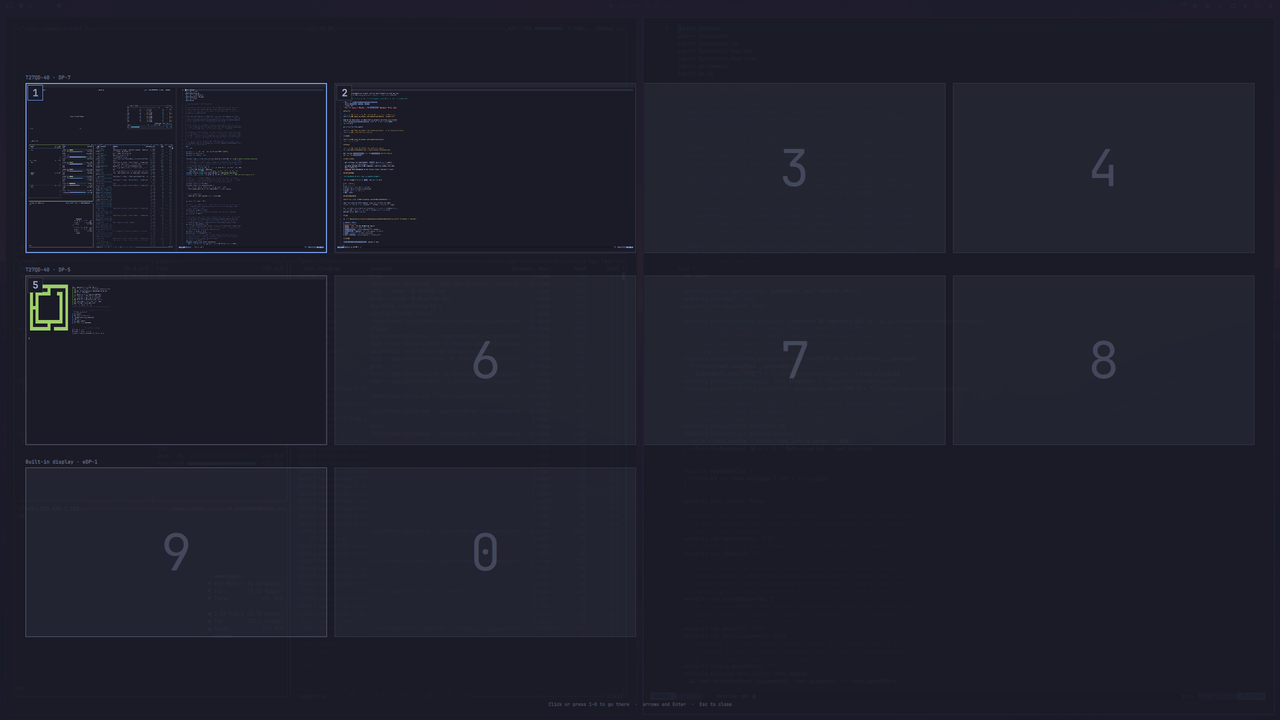
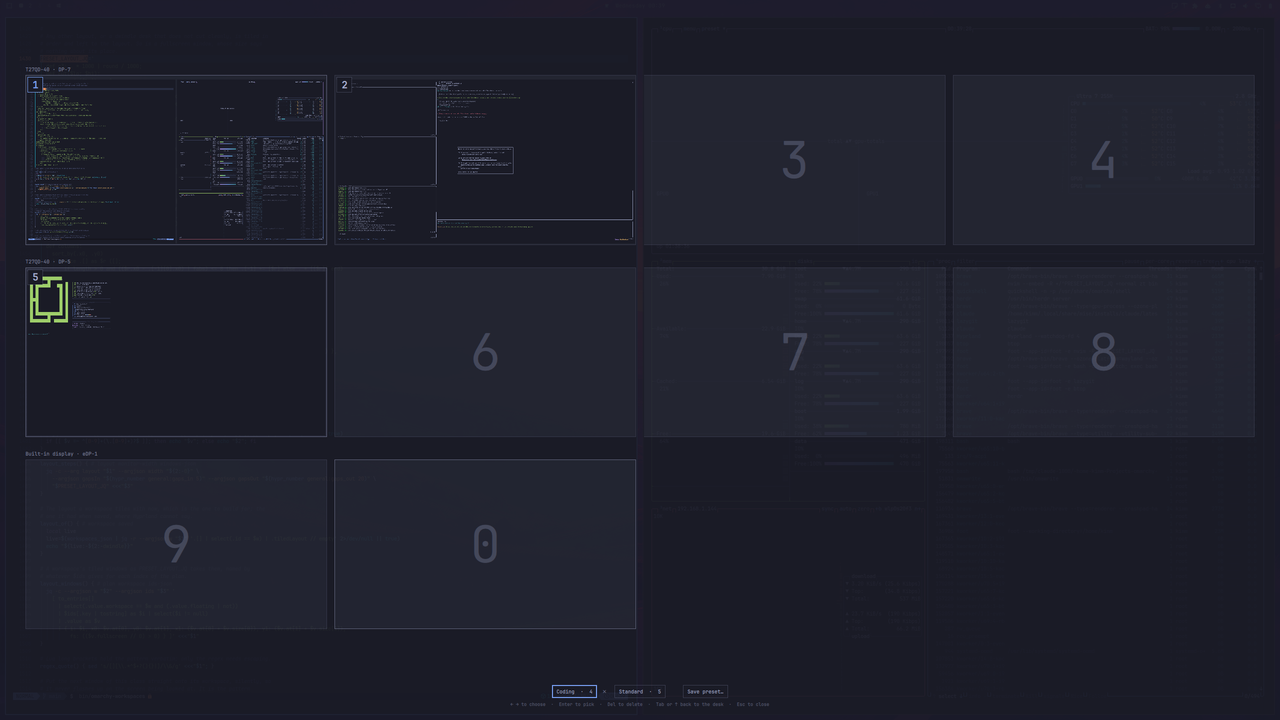
Retake the overview screenshot with presets, and show it at the top
The overview now has the saved presets under the desk, so the screenshot
shows them: a demo desk of nvim, btop, lazygit and fastfetch, with its
preset selected in the row. It moves up to sit under the first screenshot,
so the README opens with both.

diff --git a/README.md b/README.md
@@ -5,6 +5,8 @@ own. An overview shows every workspace at once, with live window thumbnails.
 
 ![Each monitor's bar showing only its own workspaces, above the setup panel that assigns them](preview.png)
 
+![The overview: every workspace at once, with live window thumbnails and the saved presets underneath](overview.png)
+
 - **Plugin ID:** `io.github.kimm-stensborg.workspaces`
 - **Kinds:** `bar-widget`, `overlay`, `service`
 - **License:** MIT
@@ -54,8 +56,6 @@ shortcut from `bindings.lua`.
 - **Undocking moves workspaces** to the nearest monitor, and back on return.
 
 ## The overview
-
-![Every workspace at once, with live window thumbnails](overview.png)
 
 Open it with **** in the bar or **`SUPER` + the key left of `1`**.
 
